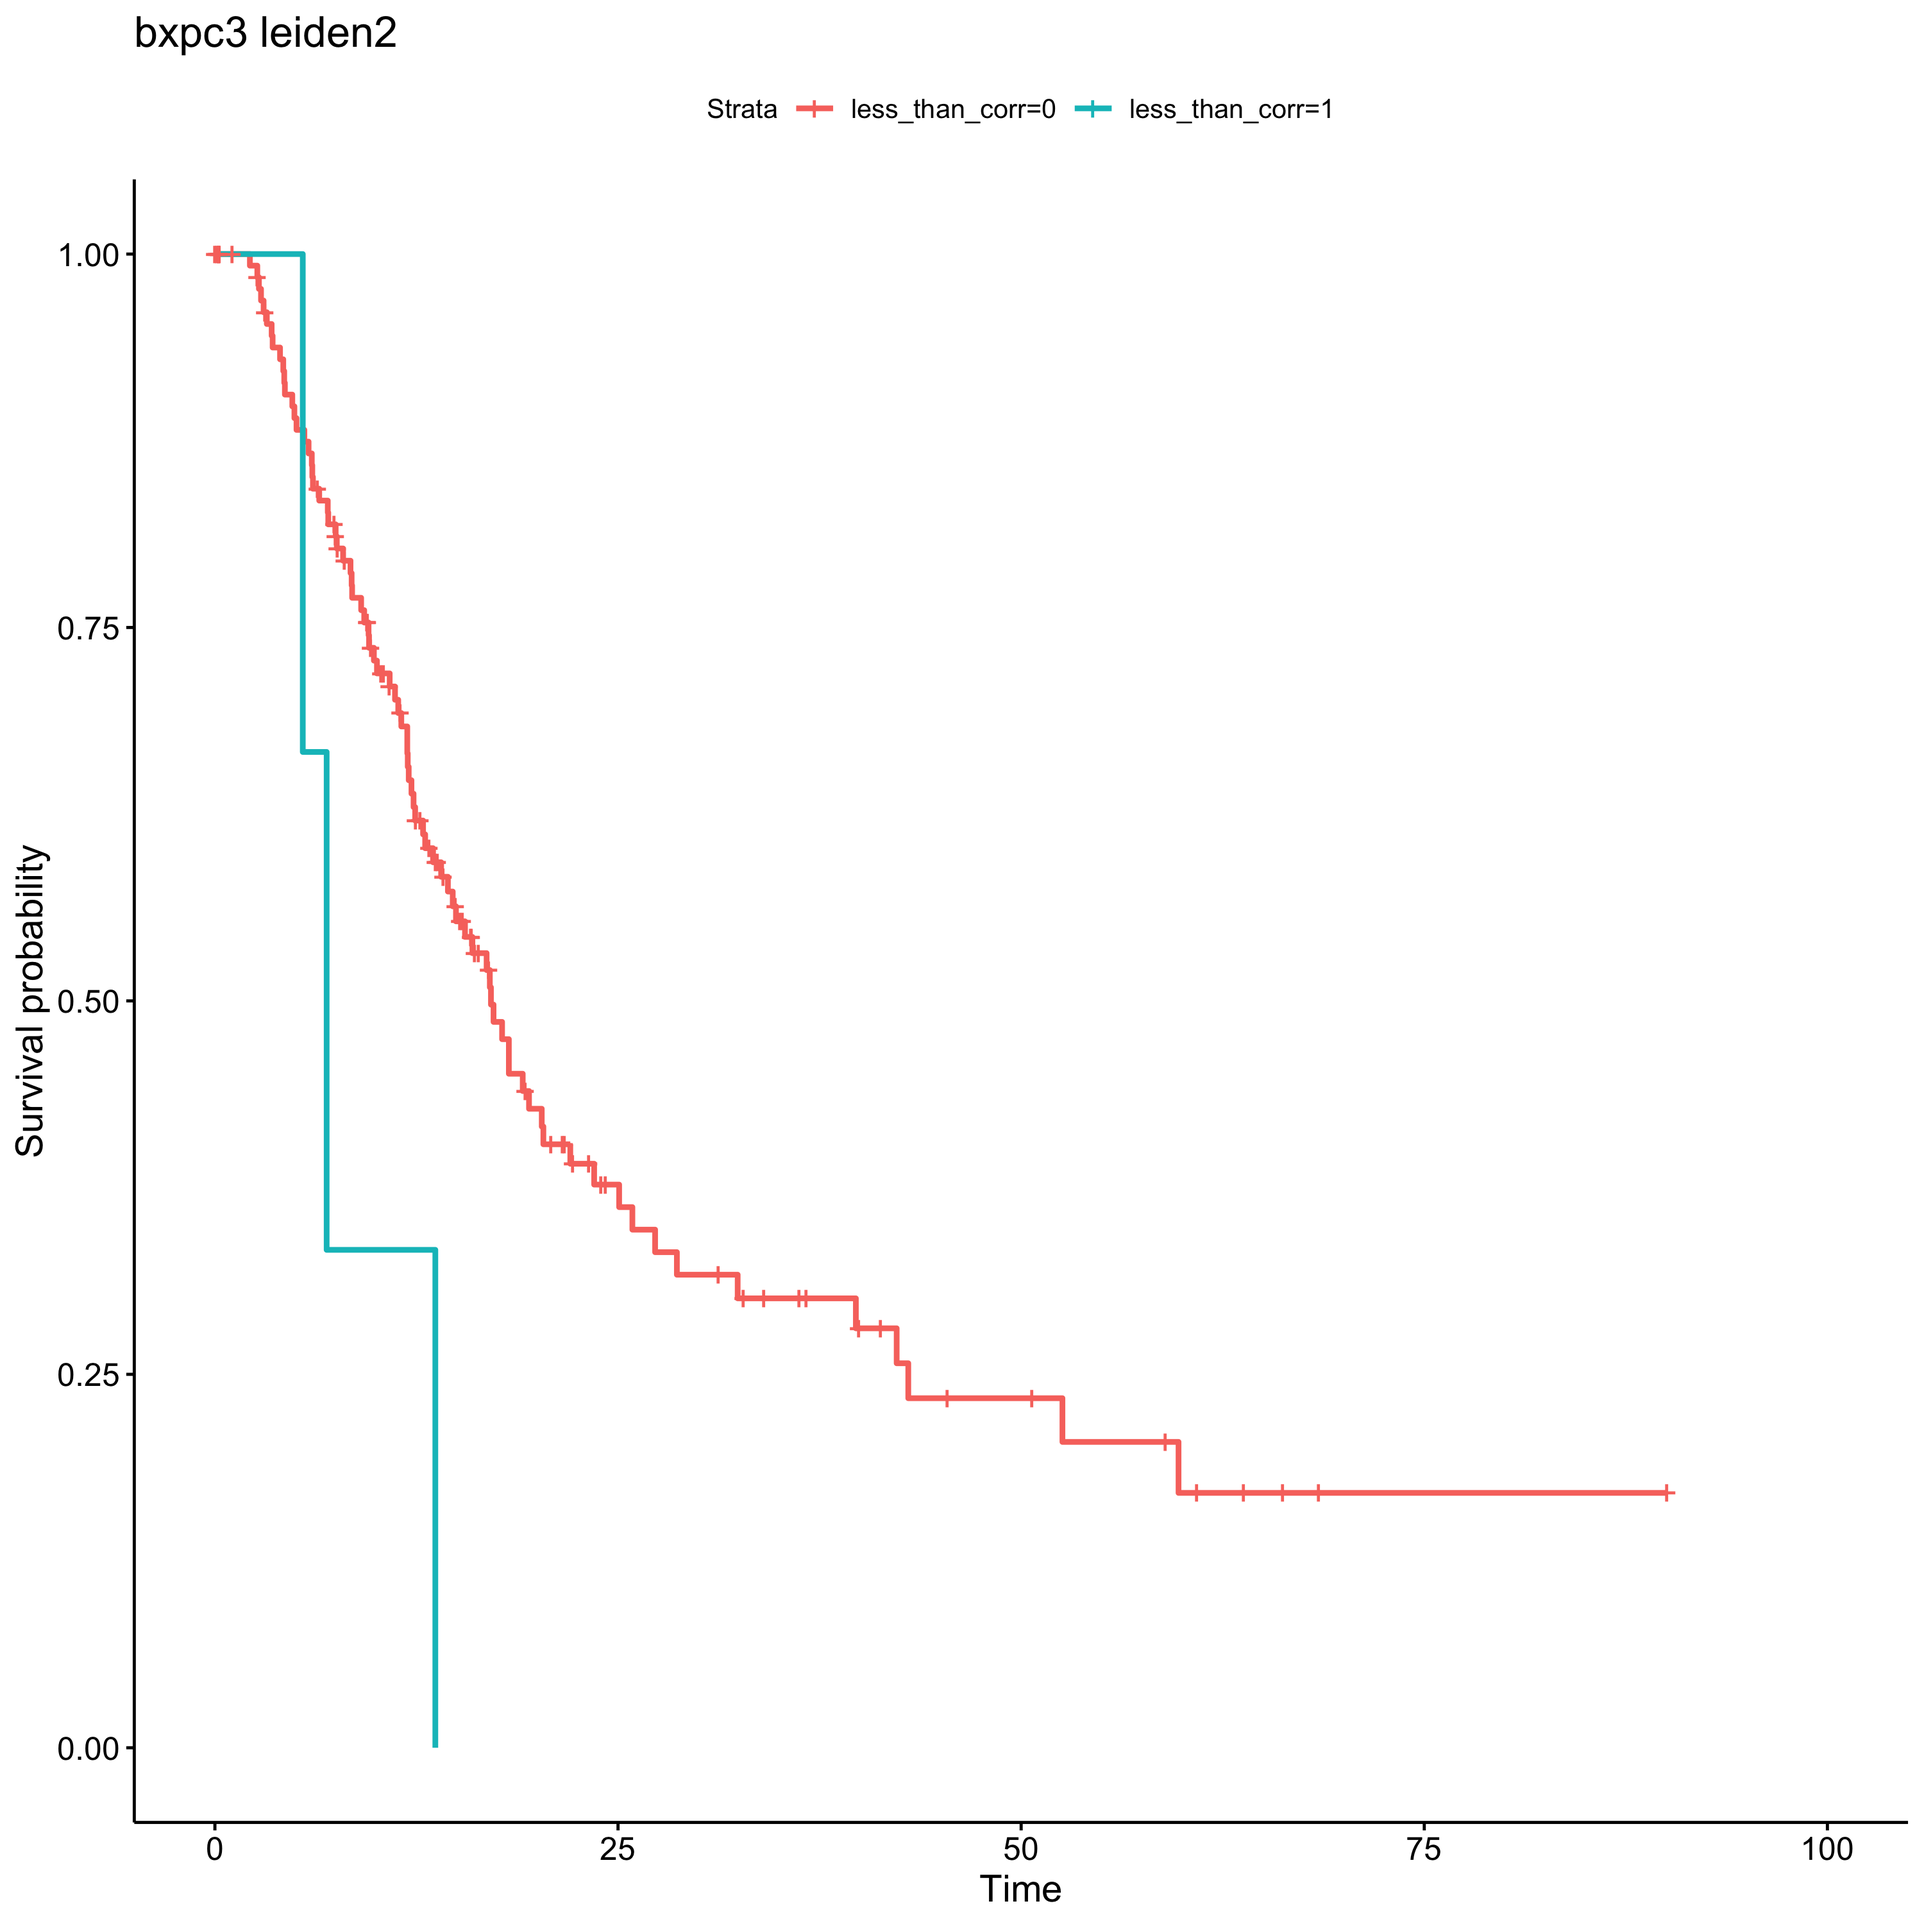
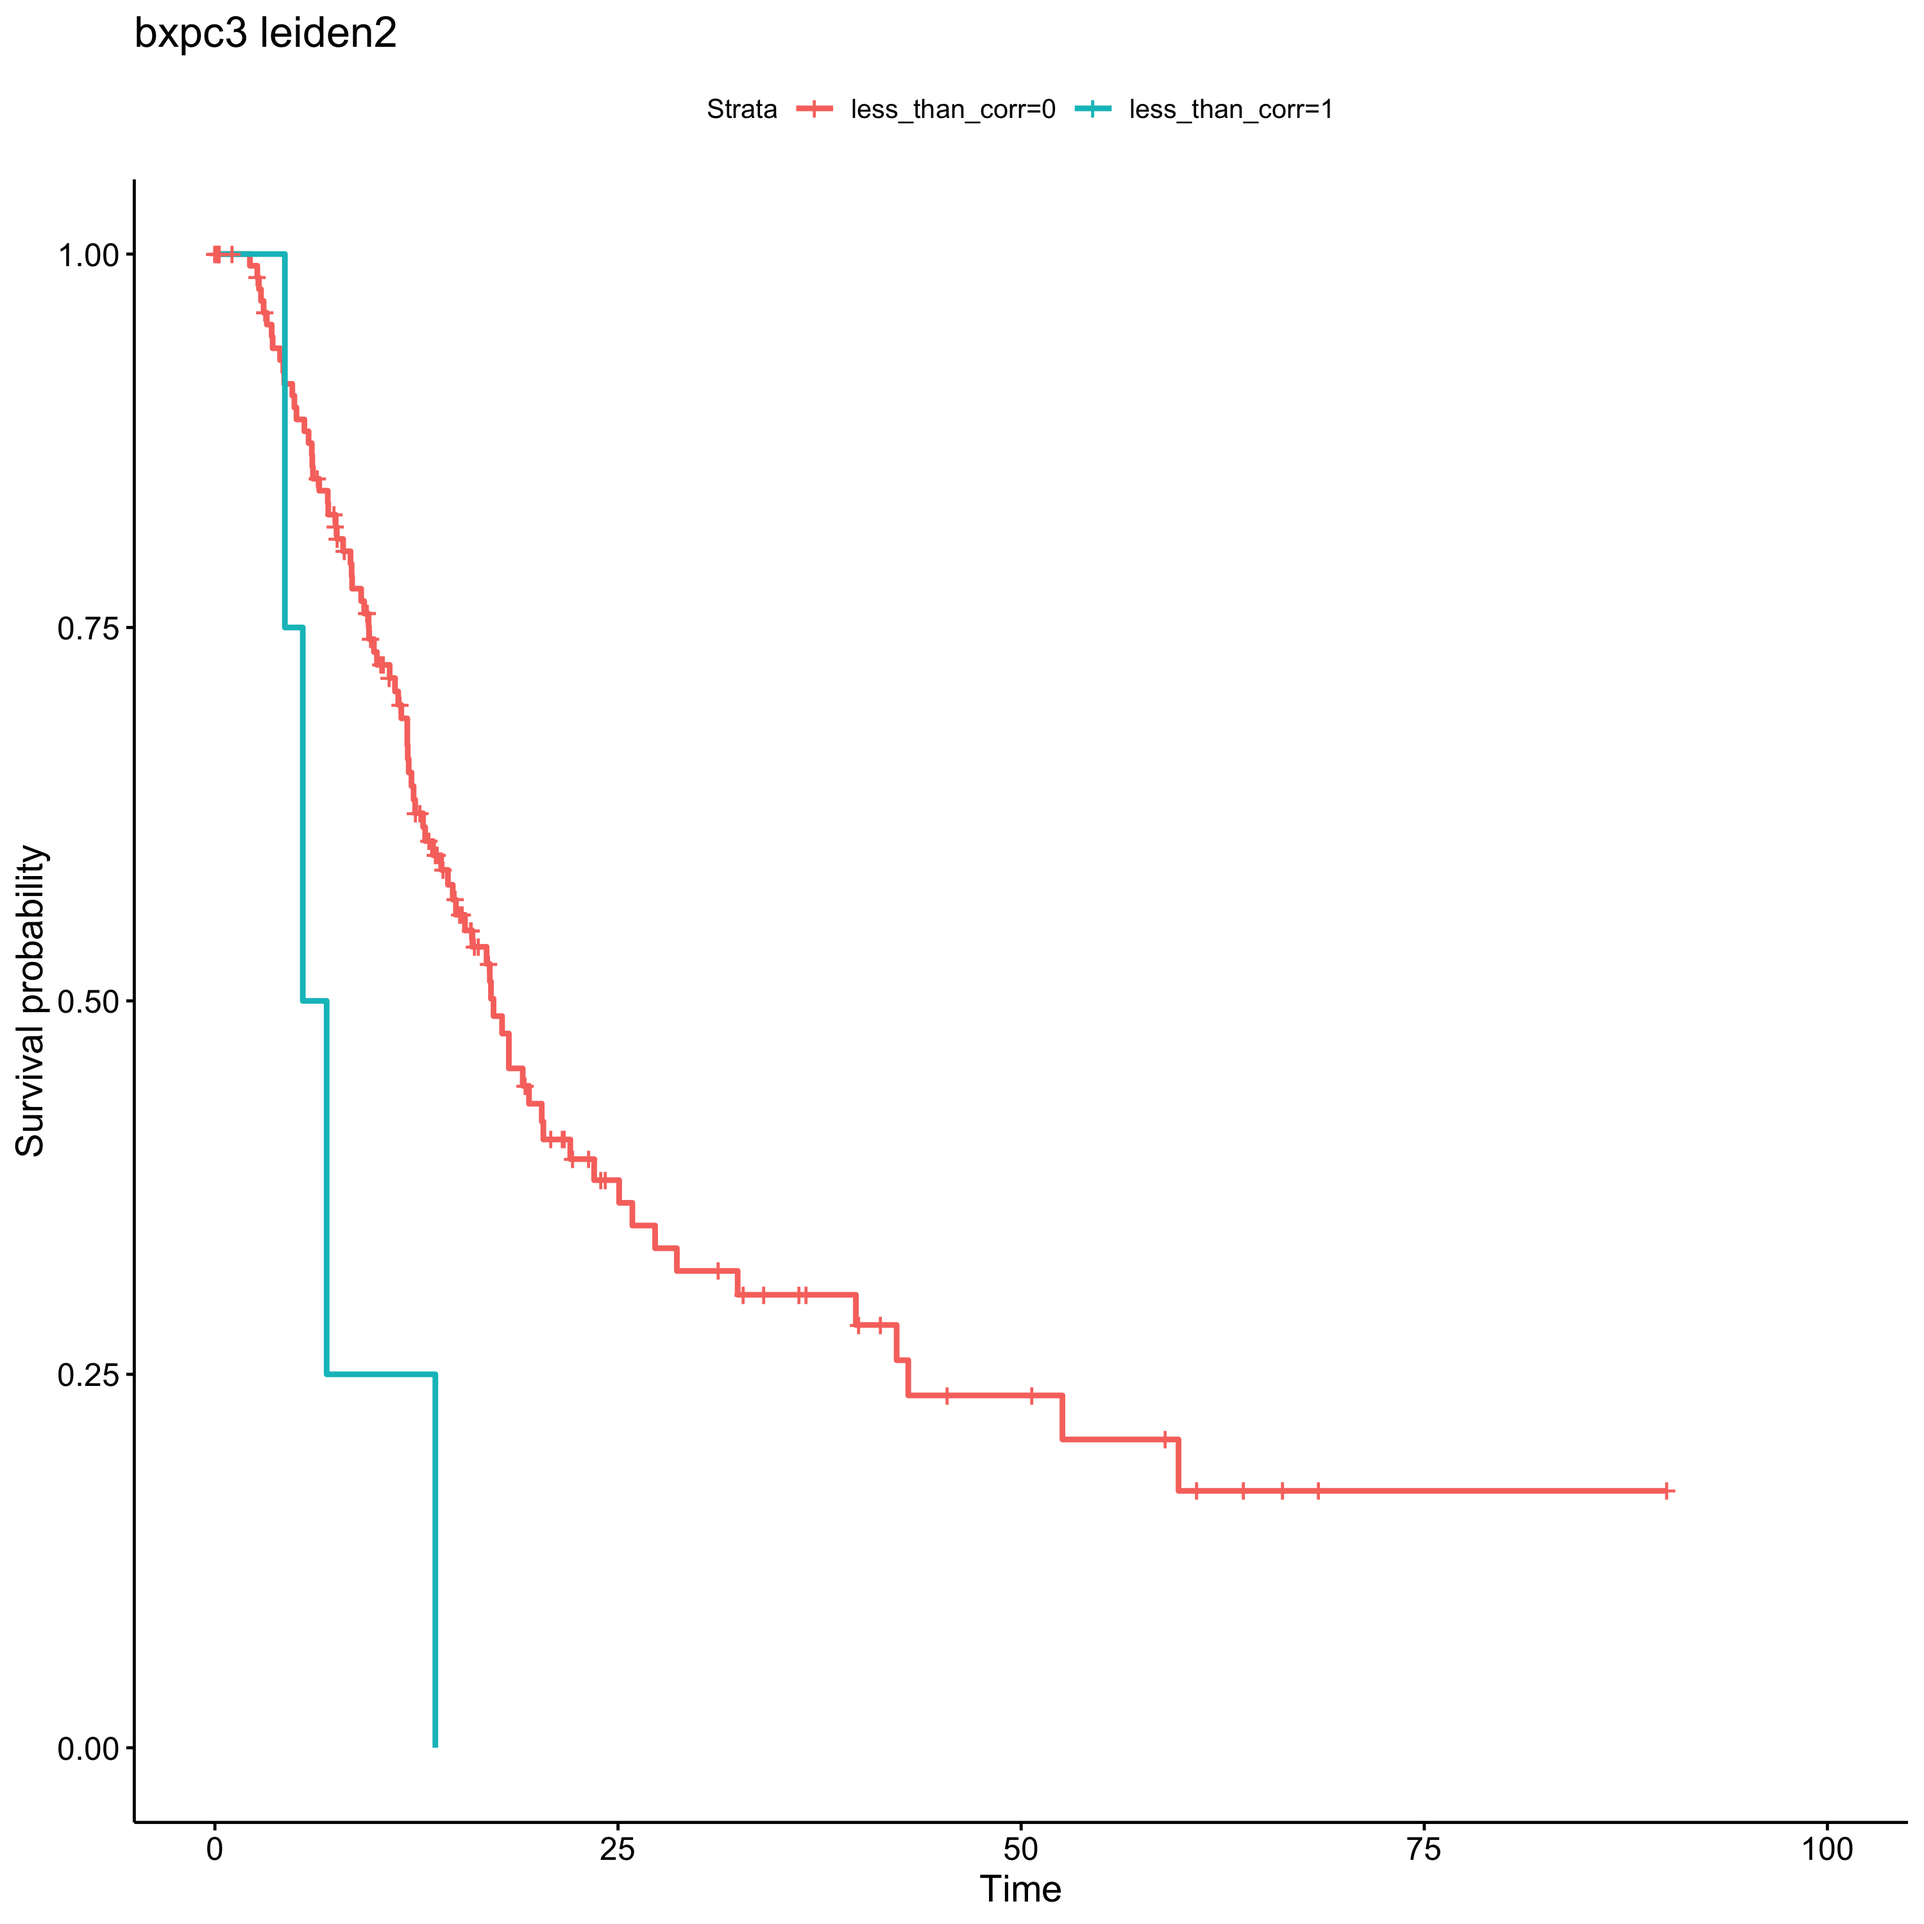
Added permutation script

diff --git a/survival_analysis/README.md b/survival_analysis/README.md
@@ -1,0 +1,221 @@
+Make pateint zscores for each person
+====================================
+
+Read in data
+------------
+
+    # find all the count table files
+    files <- list.files(pattern = "*.htseq.counts.gz", recursive = TRUE)
+    # read count tables into a list of tables
+    datalist <- lapply(files, function(x){read.table(file=x,header=FALSE,
+                                                     col.names=c("gene", sub(".htseq.counts.gz", "",x)))})
+    # merge the individual count tables into a dataframe
+    m <- Reduce(function(...) merge(..., by=1, all = TRUE), datalist)
+    rownames(m) <- m[,1]
+    # get rid of the first few rows, they are summaries of the count tables
+    m <- m[6:nrow(m),-1]
+
+    # convert counts to z-score
+    m_scaled <- as.data.frame(t(scale(t(m))))
+
+    # read in the gene expression signature
+
+    express_table <- read.csv('./sc_signatures/BXPC3_pvals_monacle.csv', 
+                              stringsAsFactors = FALSE)
+
+    signature2<-read.csv('./sc_signatures/bxpc3_leiden2_logfoldchangeGT50pct_genes.csv',stringsAsFactors = FALSE)
+    signature6<-read.csv('./sc_signatures/bxpc3_leiden6_logfoldchangeGT50pct_genes.csv',stringsAsFactors = FALSE)
+    signature3<-read.csv('./sc_signatures/panc1_leiden3_logfoldchangeGT50pct_genes.csv',stringsAsFactors = FALSE)
+    signature7<-read.csv('./sc_signatures/panc1_leiden7_logfoldchangeGT50pct_genes.csv',stringsAsFactors = FALSE)
+
+    signature2<-signature2 %>% filter(abs(logfoldchanges)>1.5 & pvals_adj<.00005)
+    signature6<-signature6 %>% filter(abs(logfoldchanges)>1.5 & pvals_adj<.00005)
+    signature3<-signature3%>% filter(abs(logfoldchanges)>1.5 & pvals_adj<.00005)
+    signature7<-signature7%>% filter(abs(logfoldchanges)>1.5 & pvals_adj<.00005)
+
+Trun into zscores and write out to pdata
+----------------------------------------
+
+    # import expression table just to use for translating ensemble ids to gene names
+    gene_dict <- express_table %>% select(gene_ids, gene_short_name)
+
+    # strip suffix (isoform) from ensembl IDs
+    m_scaled$gene_ids <- unlist(lapply(rownames(m_scaled),
+                                       function(x) unlist(strsplit(x,'\\.'))[[1]]))
+    # join genedict table with expression table by ensemble IDs, table now has gene name column
+    m_gene_names <- join(m_scaled, gene_dict, by = "gene_ids", type = "inner")
+    # change rownames from ensembl IDs to gene names for easier selection
+    rownames(m_gene_names) <- m_gene_names$gene_short_name
+    # select only the rows matching the gene signature rows
+    m_sig3 <- m_gene_names[signature3$names,]
+    m_sig7 <- m_gene_names[signature7$names,]
+    m_sig2<- m_gene_names[signature2$names,]
+    m_sig6<- m_gene_names[signature6$names,]
+    write.csv(m_sig3, './pData/clin_zscores_sig3.csv')
+    write.csv(m_sig7, './pData/clin_zscores_sig7.csv')
+    write.csv(m_sig2, './pData/clin_zscores_sig2.csv')
+    write.csv(m_sig6, './pData/clin_zscores_sig6.csv')
+
+Make pateint metadata
+---------------------
+
+### All can be downloaded from <http://www.cbioportal.org/study?id=paad_tcga&tab=clinicalData>
+
+    import gzip
+    import csv
+    import io
+    import glob
+    import os
+    import pandas as pd
+    import numpy as np
+    files = glob.glob("./panc_expression/**/*.gz")
+    metalist = glob.glob("./panc_expression/**/*")
+    os.path.basename("./gdc_sample_sheet.2019-03-05.tsv")
+    name2tcga = "./gdc_sample_sheet.2019-03-05.tsv"
+    tcga = []
+    dirname=os.path.dirname
+    with open(name2tcga, 'r') as csvfile:
+        spamreader = csv.reader(csvfile, delimiter='\t')
+        for row in spamreader:
+            for meta in metalist:
+                if os.path.basename(meta) == row[1]:
+                    tcga.append([row[6], os.path.basename(dirname(meta))])
+    tcga2patientdata = "./paad_tcga_clinical_data.tsv"
+    tcga2patient = []
+    with open(tcga2patientdata, 'r') as csvfile:
+        spamreader = csv.reader(csvfile, delimiter='\t')
+        for row in spamreader:
+            for tc in tcga:
+                if tc[0][:-1] == row[2]:
+                    tmp = [tc[1], row[29], row[28], row[86]] 
+                    #Disease Free (Months)  Disease \t Free Status \t sex
+                    tcga2patient.append(tmp)
+    df = pd.DataFrame(tcga2patient)
+    len(np.unique(df[2]))
+    df.to_csv("patient_metadata.tsv", sep='\t')
+
+Read in data from above
+-----------------------
+
+    output<-read.csv('./pData/patient_metadata.tsv',sep='\t')
+    zscorebxpc2<-read.csv('./pData/clin_zscores_sig2.csv',stringsAsFactors = FALSE)
+    zscorebxpc6<-read.csv('./pData/clin_zscores_sig6.csv',stringsAsFactors = FALSE)
+    zscorepanc3<-read.csv('./pData/clin_zscores_sig3.csv',stringsAsFactors = FALSE)
+    zscorepanc17<-read.csv('./pData/clin_zscores_sig7.csv',stringsAsFactors = FALSE)
+
+
+    signature2<-read.csv('./sc_signatures/bxpc3_leiden2_logfoldchangeGT50pct_genes.csv',stringsAsFactors = FALSE)
+    signature6<-read.csv('./sc_signatures/bxpc3_leiden6_logfoldchangeGT50pct_genes.csv',stringsAsFactors = FALSE)
+    signature3<-read.csv('./sc_signatures/panc1_leiden3_logfoldchangeGT50pct_genes.csv',stringsAsFactors = FALSE)
+
+    signature2<-signature2 %>% filter(abs(logfoldchanges)>1.5 & pvals_adj<.00005)
+    signature6<-signature6 %>% filter(abs(logfoldchanges)>1.5 & pvals_adj<.00005)
+    signature3<-signature3%>% filter(abs(logfoldchanges)>1.5 & pvals_adj<.00005)
+
+Survival Analysis
+-----------------
+
+    output<-output %>% filter(!is.na(X1))
+    output$dir_name<-unlist(lapply(output$X0,function(x) unlist(str_split(x,'-'))[5]))
+    output$y<-ifelse(output$X1=="DiseaseFree",0,1) 
+
+
+    make_cors<-function(zscore,signature,title){
+      zscore<-inner_join(zscore,signature,by=c("gene_short_name"="names"))
+    p<-zscore %>% select(contains("count_table")) #pull out patinet vectors
+    cors<-apply(p,2,function(y) cor(zscore$scores,as.numeric(y)))
+    #turn all columns numeric and get the corralation between the two
+    cors<-data.frame("X0"=colnames(p),cors)
+    cors$dir_name<-unlist(lapply(cors$X0,function(x) unlist(str_split(x,'\\.'))[6]))
+    corrlation<-inner_join(cors,output,by="dir_name")
+    (ggplot(corrlation) + geom_histogram(aes(corrlation$cors))+ggtitle(paste0(title))+scale_color_manual(ucsfcolors))
+      return(corrlation)
+    }
+
+    y_cut_off<-function(cors,title){
+      pvalues<-unlist(lapply(sort(cors$cors),
+    function(x)  
+      summary(coxph(Surv(cors$X2,cors$y)~ifelse(cors$cors>x,1,0)))$coef[5]))
+      ps<-data.frame(percentile=1:138/138,pvalues,cors=sort(cors$cors))
+      (ggplot(ps) + geom_point(aes(percentile,-log10(pvalues)))+ggtitle(paste(title)))
+      min_cor=ps[ps$pvalues==min(ps$pvalues,na.rm=TRUE),3][1]
+      cors$less_than_corr<-ifelse(cors$cors>min_cor,0,1)
+      (ggsurvplot(survfit(Surv(cors$X2,cors$y)~cors$less_than_corr),data=cors,title=paste(title)))
+      return(min(ps$pvalues,na.rm=TRUE))
+    }
+
+    surv_volcano<-function(zscore,signature,title){
+      siglen=dim(signature)[1]
+      zscore<-inner_join(zscore,signature,by=c("gene_short_name"="names"))
+      p<-zscore %>% select(contains("count_table"))
+      gene<-p %>% t() %>% as.data.frame()
+      colnames(gene)<-signature$names
+      gene$dir_name<-unlist(lapply(rownames(gene),function(x) unlist(str_split(x,'\\.'))[6]))
+      gene<-inner_join(gene,output,by="dir_name") %>% select(-dir_name,-X,-X0,-X1)
+      gene_p<-apply(gene[,1:siglen],2,function(x) 
+      summary(coxph(Surv(gene$X2,gene$y)~x))$coef[5]) %>% data.frame() 
+      gene_coef<-apply(gene[,1:siglen],2,function(x) 
+      summary(coxph(Surv(gene$X2,gene$y)~x))$coef[1]) %>% data.frame() 
+      gene_p$names<-rownames(gene_p)
+      colnames(gene_p)<-c("p_val","names")
+      gene_coef$names<-rownames(gene_coef)
+      colnames(gene_coef)<-c("coef","names")
+      surv_genes<-inner_join(gene_p,signature,by="names")
+      surv_genes<-inner_join(gene_coef,surv_genes,by="names")
+      surv_genes<-surv_genes %>% arrange(p_val,decreasing=FALSE)
+      vol<-ggplot(surv_genes,aes(coef,-log10(p_val)))+geom_point()+ggtitle(title)
+      (vol+geom_text_repel(data=head(surv_genes, 10), aes(label=surv_genes$names[1:10])))
+    }
+
+    permutation_test<-function(zscore,signature,title,n){
+      p=c()
+      for(i in 1:n){
+        zscore$gene_short_name<-zscore$gene_short_name[sample(nrow(zscore))]
+        perm_corlations<-make_cors(zscore,signature,paste0(title,n))
+        p[i]=y_cut_off(perm_corlations,paste(title,n))
+      }
+       return(p)
+
+    }
+
+BXPC Leiden 2
+=============
+
+    sig_cors2<-make_cors(zscorebxpc2,signature2,"bxpc3_leiden2")
+    pval<-y_cut_off(sig_cors2,"bxpc3 leiden2")
+    surv_volcano(zscorebxpc2,signature2,"bxpc3 leiden2")
+
+![](Systems_notebook_files/figure-markdown_strict/unnamed-chunk-8-1.png)
+
+    perm_ps<-permutation_test(zscorebxpc2,signature2,"bxpc3 leiden2 permutations",50)
+    ggplot(data.frame(perm_ps))+ geom_histogram(aes(perm_ps))+geom_vline(xintercept = pval)
+
+![](Systems_notebook_files/figure-markdown_strict/unnamed-chunk-8-2.png)
+
+BXPC Leiden 6
+=============
+
+    sig_cors6<-make_cors(zscorebxpc6,signature6,"bxpc3 leiden6")
+    pval<-y_cut_off(sig_cors6,"bxpc3 leiden6")
+    surv_volcano(zscorebxpc6,signature6,"bxpc3 leiden6")
+
+![](Systems_notebook_files/figure-markdown_strict/unnamed-chunk-9-1.png)
+
+    perm_ps<-permutation_test(zscorebxpc6,signature6,"bxpc3 leiden2 permutations",50)
+    ggplot(data.frame(perm_ps))+ geom_histogram(aes(perm_ps))+geom_vline(xintercept = pval)
+
+![](Systems_notebook_files/figure-markdown_strict/unnamed-chunk-9-2.png)
+
+PANC1 Leiden 3
+==============
+
+    sig_cors3<-make_cors(zscorepanc3,signature3,"panc1 leiden3")
+    pval<-y_cut_off(sig_cors3,"panc1 leiden3")
+    surv_volcano(zscorepanc3,signature3,"panc1 leiden3")
+
+![](Systems_notebook_files/figure-markdown_strict/unnamed-chunk-10-1.png)
+
+    perm_ps<-permutation_test(zscorepanc3,signature3,"bxpc3 leiden2 permutations",50)
+    ggplot(data.frame(perm_ps))+ geom_histogram(aes(perm_ps))+geom_vline(xintercept = pval)
+
+![](Systems_notebook_files/figure-markdown_strict/unnamed-chunk-10-2.png)
